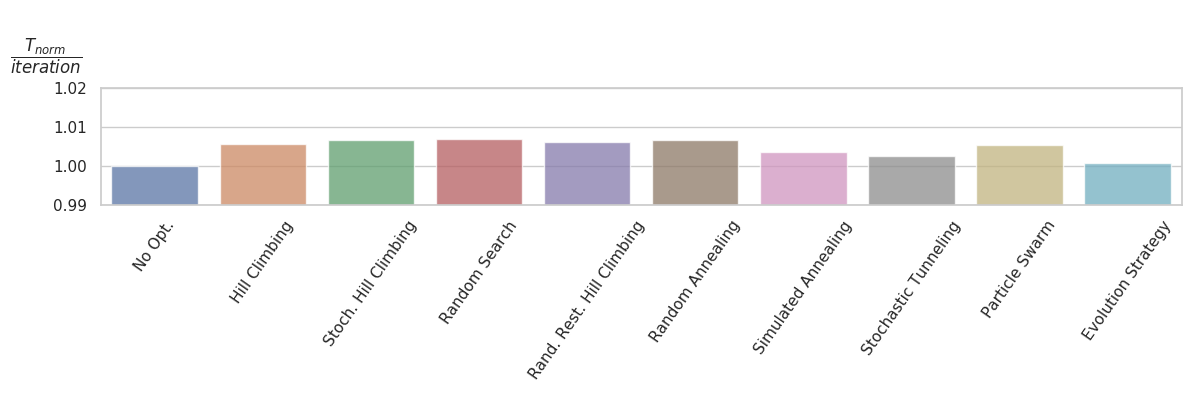
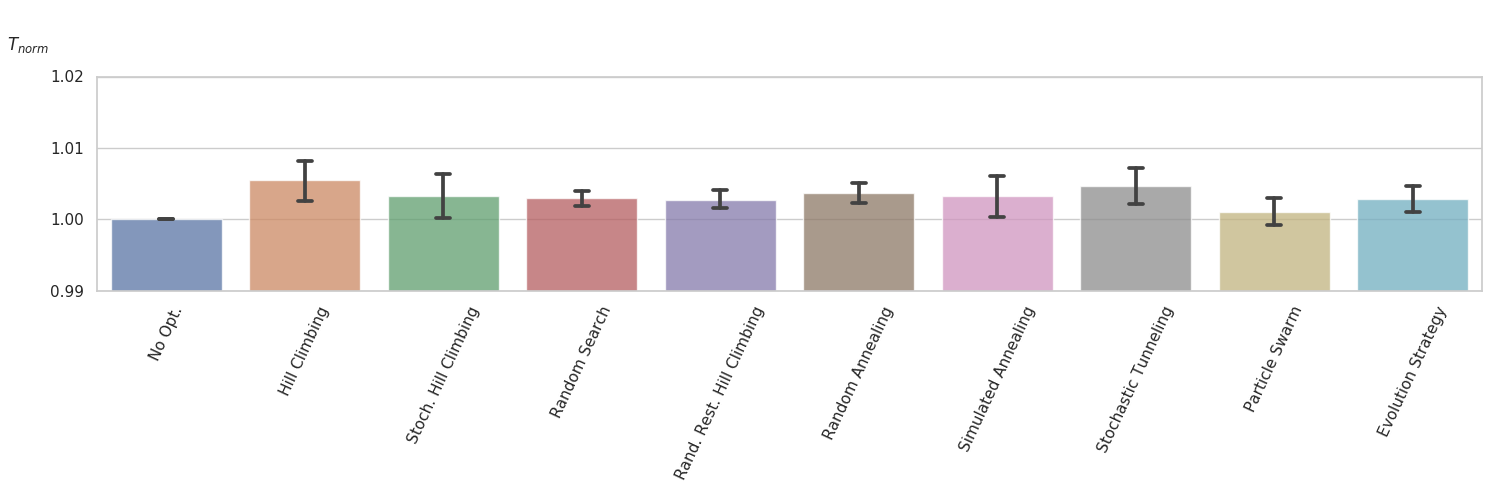
update plot with more runs/iterations

diff --git a/plots/data/optimizer_time.py b/plots/data/optimizer_time.py
@@ -45,10 +45,16 @@ iris_y = iris_data.target
 #################################################################################################
 
 
-search_config = {"sklearn.ensemble.GradientBoostingClassifier": {"n_estimators": [100]}}
+search_config = {
+    "sklearn.ensemble.GradientBoostingClassifier": {
+        "n_estimators": range(99, 102),
+        "max_depth": range(3, 4),
+    }
+}
+runs = 30
 n_iter = 300
 n_jobs = 1
-cv = 5
+cv = 3
 n_population = 10
 warm_start = False
 memory = False
@@ -112,46 +118,55 @@ opt_list = {
 
 #################################################################################################
 
+time_c = time.time()
+data_runs = []
+for run in range(runs):
+    print("\nRun nr.", run, "\n")
+    time_opt = []
 
-time_opt = []
-
-gbc = GradientBoostingClassifier()
-start = time.perf_counter()
-for i in tqdm.tqdm(range(n_iter)):
-
-    scores = cross_val_score(
-        gbc, iris_X, iris_y, scoring="accuracy", n_jobs=n_jobs, cv=cv
-    )
-time_ = time.perf_counter() - start
-
-time_opt.append(time_)
-time.sleep(1)
-# data["No Opt"]["0"] = time_
-
-for key in opt_list.keys():
-    print("\n optimizer:", key)
-    opt_obj = opt_list[key]
-
+    gbc = GradientBoostingClassifier()
     start = time.perf_counter()
-    opt_obj.fit(iris_X, iris_y)
+    for i in tqdm.tqdm(range(n_iter)):
+
+        scores = cross_val_score(
+            gbc, iris_X, iris_y, scoring="accuracy", n_jobs=n_jobs, cv=cv
+        )
     time_ = time.perf_counter() - start
 
     time_opt.append(time_)
     time.sleep(1)
+    # data["No Opt"]["0"] = time_
 
-time_opt = np.array(time_opt)
-time_opt = np.expand_dims(time_opt, axis=0)
+    for key in opt_list.keys():
+        print("\n optimizer:", key)
+        opt_obj = opt_list[key]
 
+        start = time.perf_counter()
+        opt_obj.fit(iris_X, iris_y)
+        time_ = time.perf_counter() - start
+
+        time_opt.append(time_)
+        time.sleep(1)
+
+    time_opt = np.array(time_opt)
+    time_opt = time_opt / n_iter
+    # time_opt = np.expand_dims(time_opt_norm, axis=0)
+
+    data_runs.append(time_opt)
+
+data_runs = np.array(data_runs)
 #################################################################################################
 print("\nCreate Dataframe\n")
 
-print("time_opt", time_opt)
+print("data_runs", data_runs, data_runs.shape)
 
 column_names = ["No Opt."] + list(opt_list.keys())
-data = pd.DataFrame(time_opt, columns=column_names)
+data = pd.DataFrame(data_runs, columns=column_names)
 
 calc_optimizer_time_name = "optimizer_calc_time"
 
 
 file_name = str(calc_optimizer_time_name + version)
 data.to_csv(file_name, index=False)
+
+print("data collecting time:", time.time() - time_c)

diff --git a/plots/plot.py b/plots/plot.py
@@ -7,38 +7,62 @@ import hyperactive
 import numpy as np
 import pandas as pd
 import matplotlib.pyplot as plt
+from matplotlib.ticker import MultipleLocator
 
 # import matplotlib as mpl
 import seaborn as sns
 
+ml = MultipleLocator(5)
 
 version = str("_v" + hyperactive.__version__)
-n_iter = 300
+n_iter = 100
 
 sns.set(style="whitegrid")
 data = pd.read_csv("./data/optimizer_calc_time_v0.3.3", header=0)
+# print("data", data)
 
 columns = data.columns
-values = data.values[0]
-values_1 = values / 100
-values_norm = values_1 / values_1[0]
+values = data.values
+# print("values", values, values.shape)
+# print("values[:, 0]", values[:, 0])
+
+no_opt = values[:, 0]
+
+values_norm = values / no_opt[:, None]
+
+# print("values_norm", values_norm, values_norm.shape)
 
 fig, ax = plt.subplots()
-plt.figure(figsize=(12, 4))
-plt.grid(True)
-plt.ylabel(r"$\dfrac{T_{norm}}{iteration}$", rotation=0)
+plt.figure(figsize=(15, 5))
+# plt.grid(True)
+# plt.ylabel(r"$\dfrac{T_{norm}}{iteration}$", rotation=0)
+plt.ylabel(r"$T_{norm}$", rotation=0)
 
-ax = sns.barplot(x=columns, y=values_norm, alpha=0.75)
-ax.set_xticklabels(ax.get_xticklabels(), rotation=55)
+data = pd.DataFrame(values_norm, columns=columns)
+ax = sns.barplot(data=data, alpha=0.75, capsize=0.1)
+# ax = sns.barplot(x=columns, y=values_norm, alpha=0.75, ci="sd")
+ax.set_xticklabels(ax.get_xticklabels(), rotation=65)
+
+# ax.tick_params(axis="x", which="minor", bottom=False)
+# ax.yaxis.set_minor_locator(ml)
 
 y_min = 0.99
 y_max = 1.02
+step_major = 0.01
+step_minor = 0.025
+
 ax.set_ylim(y_min, y_max)
 
-ticks = list(np.arange(y_min, y_max, 0.01))
+ticks_major = list(np.arange(y_min, y_max, step_major))
+ticks_minor = list(np.arange(y_min, y_max, step_minor))
 
-ax.yaxis.set_ticks(ticks)
+ax.yaxis.set_ticks(ticks_major)
+ax.yaxis.set_ticks(ticks_minor, minor=True)
+
+ax.xaxis.set_label_coords(-0.05, 0.5)
 ax.get_yaxis().set_label_coords(-0.05, 1.1)
+
+# ax.yaxis.grid(which="minor", color="r", linestyle="-", linewidth=2)
 
 fig = ax.get_figure()
 fig.tight_layout()
